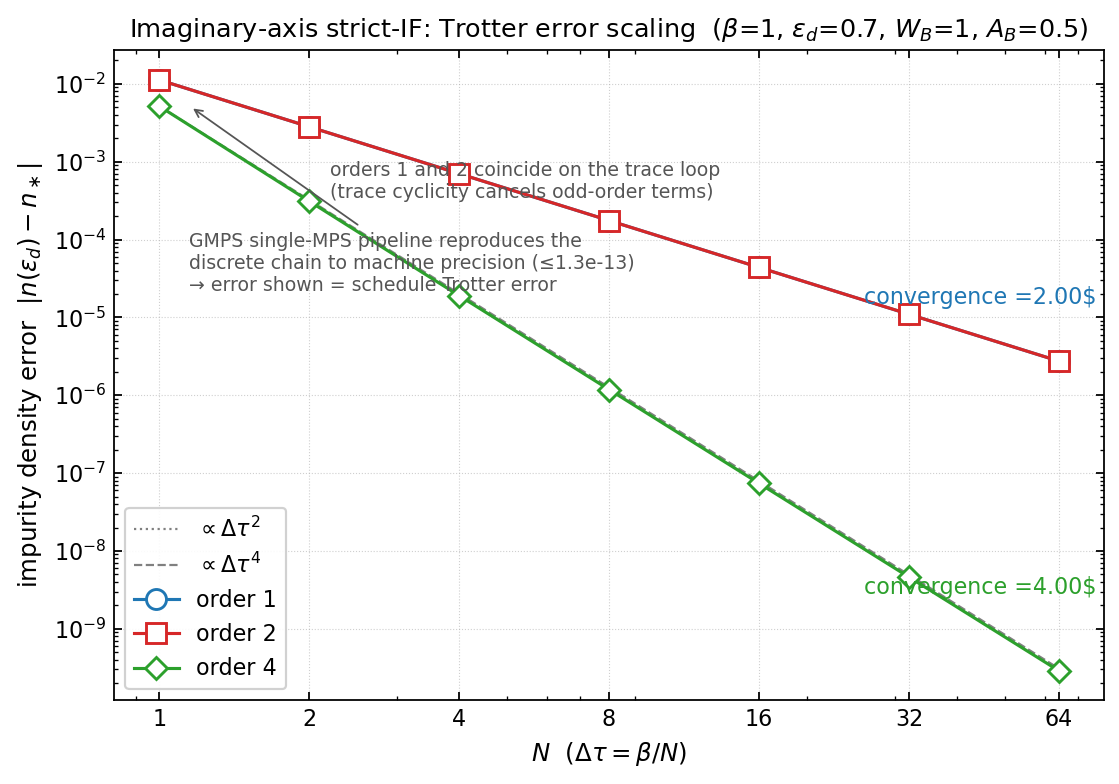
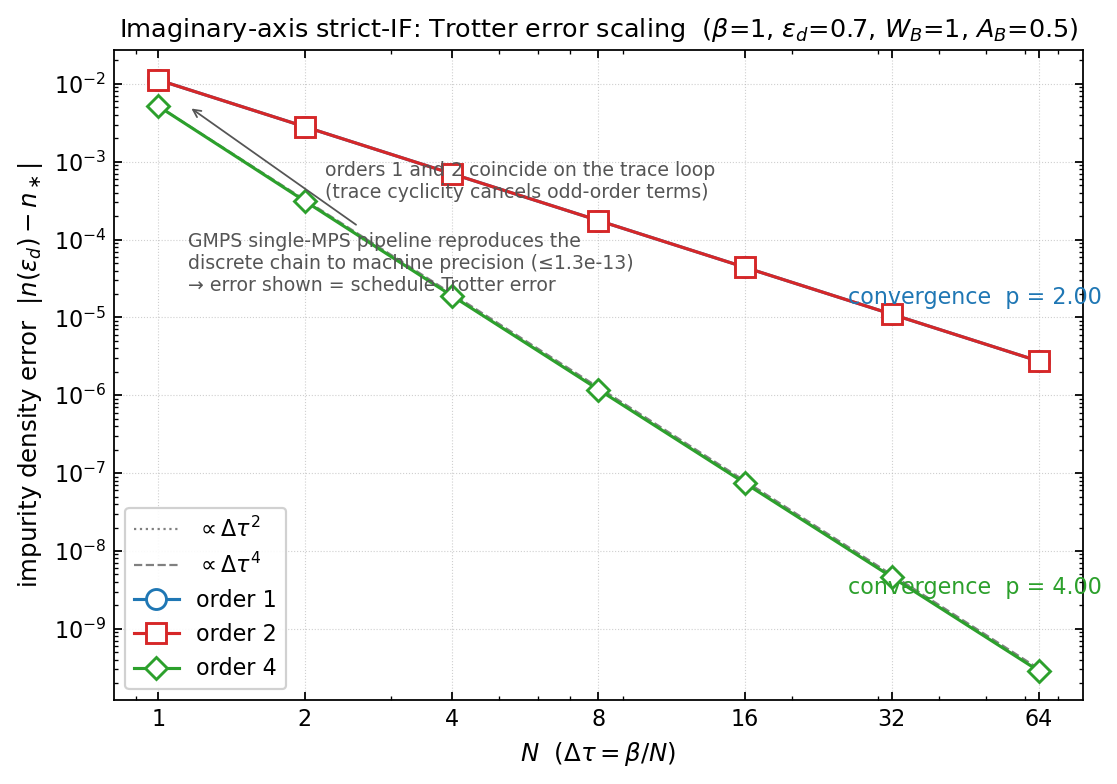
benchmark/exactif: scaling chart annotation cleanup

diff --git a/benchmark/exactif/validation/plot_imag_scaling.py b/benchmark/exactif/validation/plot_imag_scaling.py
@@ -45,9 +45,9 @@ def slope(k):
     x0 = math.log(pts[0][0]); x1 = math.log(pts[-1][0])
     y0 = math.log(pts[0][1]); y1 = math.log(pts[-1][1])
     return (y1 - y0) / (x1 - x0)
-ax.annotate(f"convergence ={abs(slope(1)):.2f}$", xy=(22, data[1][-2][1]), color=C[1],
+ax.annotate(f"convergence  p = {abs(slope(1)):.2f}", xy=(22, data[1][-2][1]), color=C[1],
             fontsize=10, xytext=(26, data[1][-2][1] * 1.35))
-ax.annotate(f"convergence ={abs(slope(4)):.2f}$", xy=(22, data[4][-2][1]), color=C[4],
+ax.annotate(f"convergence  p = {abs(slope(4)):.2f}", xy=(22, data[4][-2][1]), color=C[4],
             fontsize=10, xytext=(26, data[4][-2][1] * 0.6))
 
 ax.set_xlabel(r"$N$  ($\Delta\tau=\beta/N$)", fontsize=11)
